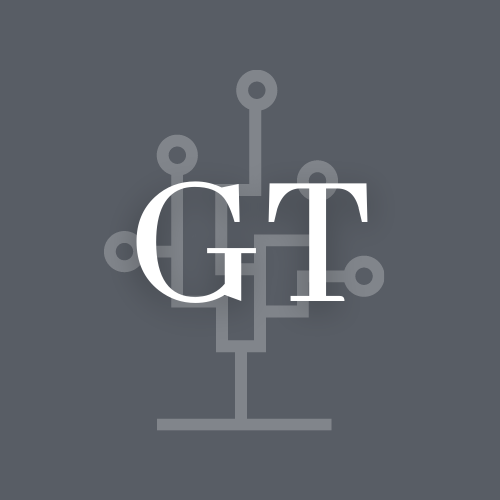
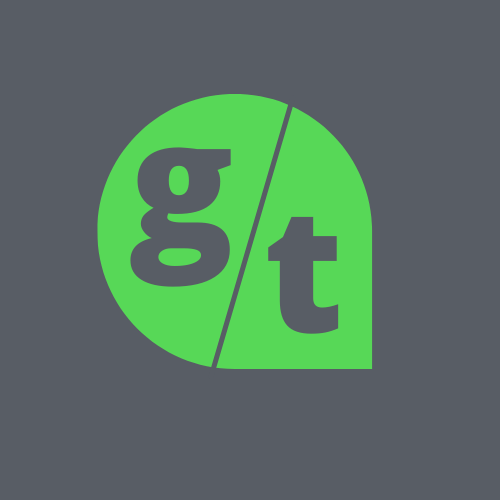
commit 26/05/2022 00:18

Changed region(s): [[0.18, 0.12, 0.78, 0.87]]

diff --git a/portafolio/index.html b/portafolio/index.html
@@ -5,6 +5,7 @@
     <meta charset="utf-8">
     <meta name="viewport" content="width=device-width, initial-scale=1">
     <title>German Toledo</title>
+    <link rel="icon" href="./assets/img/Toledo.png">
     <link href="https://cdn.jsdelivr.net/npm/bootstrap@5.2.0-beta1/dist/css/bootstrap.min.css" rel="stylesheet" integrity="sha384-0evHe/X+R7YkIZDRvuzKMRqM+OrBnVFBL6DOitfPri4tjfHxaWutUpFmBp4vmVor" crossorigin="anonymous">
     <link rel="stylesheet" href="./css/style.css">
 </head>
@@ -13,9 +14,13 @@
     <div class="d-flex justify-content-center align-items-center fixed-top">
         <nav class="navbar navbar-expand-lg bg-light w-75 px-5 rounded-pill mt-4 shadow-sm">
             <div class="container ">
-                <a class="navbar-brand " href="#">
-                    <h4 class="">German Toledo</h4>
-                </a>
+                <div class="d-flex flex-row  align-items-center">
+                    <img src="./assets/img/Toledo.png" class="logo">
+                    <a class="navbar-brand " href="#">
+
+                        <h4 class="">German Toledo</h4>
+                    </a>
+                </div>
                 <ul class="navbar-nav mb-2 mb-lg-0">
                     <li class="nav-item mx-1">
                         <a class="nav-link fw-bold active" aria-current="page" href="#">ACERCA DE MI</a>

diff --git a/portafolio/css/style.css b/portafolio/css/style.css
@@ -14,6 +14,10 @@ body {
     background-attachment: fixed;
 }
 
+.logo {
+    width: 10%;
+}
+
 .navbar {
     background-color: #585D65 !important;
 }
@@ -47,7 +51,7 @@ body {
 /* Acerca de mi */
 
 #AcercaDeMi {
-    margin-top: 7rem;
+    margin-top: 8rem;
 }
 
 #AcercaDeMi h4 {
@@ -115,9 +119,9 @@ body {
     and ui-values class*/
 
 .ui-widgets .ui-values {
-    top: 40px;
+    top: 30px;
     position: absolute;
-    left: 10px;
+    left: 6px;
     right: 0;
     font-weight: 700;
     font-size: 1.5rem;
